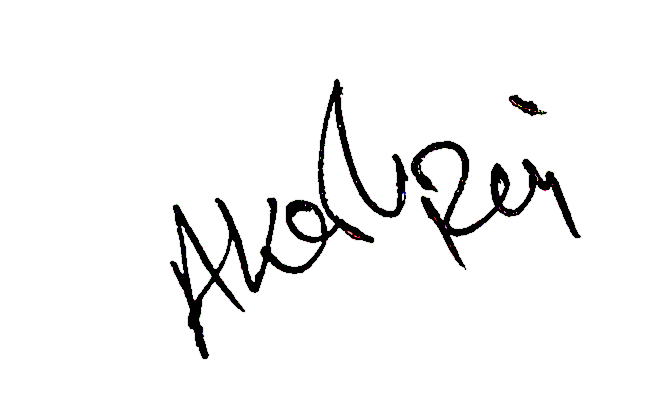
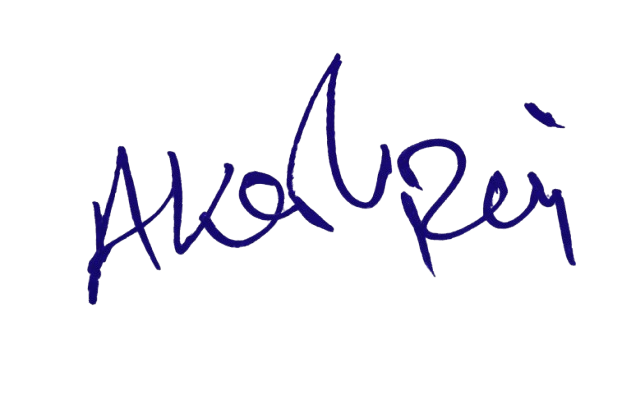
commit

Changed region(s): [[0.1204, 0.1215, 0.9334, 0.8506], [0.7528, 0.2127, 0.9033, 0.3342]]

diff --git a/src/pages/Billing.jsx b/src/pages/Billing.jsx
@@ -14,6 +14,7 @@ const BillingPage = () => {
   const customers = useSelector(state => state.customers.items);
   const products = useSelector(state => state.products.items);
   const { items: bills, status: billStatus } = useSelector(state => state.billings);
+  const { token } = useSelector(state => state.auth);
 
   const [activeTab, setActiveTab] = useState('checkout');
   const [printTargetData, setPrintTargetData] = useState(null);
@@ -228,12 +229,20 @@ const BillingPage = () => {
     };
 
     if (editingBillId) {
-      axios.put(`${import.meta.env.VITE_API_URL}billings/${editingBillId}`, completePayload)
-        .then((res) => {
-          alert("Invoice updated successfully!");
-          handlePostSubmitCleanup(res.data);
-        })
-        .catch(err => alert(`Failed to update bill record: ${err.response?.data?.message || err.message}`));
+      axios.put(
+  `${import.meta.env.VITE_API_URL}billings/${editingBillId}`,
+  completePayload,
+  {
+    headers: {
+      Authorization: `Bearer ${token}`
+    }
+  }
+)
+.then((res) => {
+  alert("Invoice updated successfully!");
+  handlePostSubmitCleanup(res.data);
+})
+.catch(err => alert(`Failed to update bill record: ${err.response?.data?.message || err.message}`));
     } else {
       dispatch(createInvoice(completePayload)).then((res) => {
         if (!res.error) {
@@ -278,6 +287,12 @@ const BillingPage = () => {
     setIsModalOpen(true);
   };
 
+  const handleCloseInspect = () => {
+    setSelectedBill(null);
+    setIsModalOpen(false);
+    setPrintTargetData(null)
+  };
+
   return (
     <div className="max-w-[1500px] mx-auto text-zinc-100 bg-zinc-950 min-h-screen space-y-6">
       
@@ -297,7 +312,7 @@ const BillingPage = () => {
             <button onClick={() => { setPrintTargetData(null); setActiveTab('checkout'); }} className="w-full sm:w-auto bg-zinc-800 hover:bg-zinc-700 text-white text-xs px-4 py-2 rounded-lg transition-colors font-bold">← Back to New Transaction</button>
           </div>
           <div className="overflow-x-auto">
-            <InvoiceTemplate billData={printTargetData} />
+            <InvoiceTemplate billData={printTargetData} onClose={handleCloseInspect} />
           </div>
         </div>
       )}
@@ -619,8 +634,7 @@ const BillingPage = () => {
         </div>
       )}
 
-      {isModalOpen && selectedBill && (<InvoiceTemplate billData={selectedBill} onClose={()=>setIsModalOpen(false)} />)}
-
+      {isModalOpen && selectedBill && (<InvoiceTemplate billData={selectedBill} onClose={handleCloseInspect} />)}
     </div>
   );
 };

diff --git a/src/components/BillReceiptCore.jsx b/src/components/BillReceiptCore.jsx
@@ -1,6 +1,7 @@
 import React from 'react';
 import logourl from '../assets/icon.png';
 import signUrl from '../assets/sign.png';
+import stampUrl from '../assets/stamp.png';
 
 const BillReceiptCore = ({ 
   invoice, 
@@ -232,12 +233,21 @@ const BillReceiptCore = ({
               </div>
 
               {/* Signature space */}
-              <div className="pt-4 flex flex-col items-end">
+              <div className="pt-4 flex flex-col items-end relative">
+                {/* Stamp positioned behind the signature area */}
+                <img 
+                  src={stampUrl} 
+                  alt="Company Seal Stamp" 
+                  className="absolute bottom- right-16 w-52 sm:w-52 h-auto object-contain mix-blend-multiply opacity-90 pointer-events-none transform -rotate-6" 
+                />
+
+                {/* Authorized Signature */}
                 <img 
                   src={signUrl} 
                   alt="Authorized Signature" 
-                  className="h-10 sm:h-12 w-24 sm:w-28 object-contain mix-blend-multiply mb-1 mr-2" 
+                  className="relative z-10 h-10 sm:h-18 w-32 sm:w-28 object-contain mix-blend-multiply mb-1 mr-2" 
                 />
+
                 <div className="w-32 sm:w-36 h-0.5 bg-zinc-300 mb-0.5"></div>
                 <div className="text-[8px] uppercase font-bold text-zinc-400 tracking-wider">Authorized Signature</div>
               </div>

diff --git a/src/components/InvoiceTemplate.jsx b/src/components/InvoiceTemplate.jsx
@@ -209,9 +209,7 @@ const InvoiceTemplate = ({ billData, onClose }) => {
               🖨 Print
             </button>
 
-            {onClose && (
-              <button onClick={onClose} className="text-zinc-400 hover:text-white transition-colors text-2xl shrink-0 leading-none cursor-pointer ml-2 no-print">&times;</button>
-            )}
+            <button onClick={onClose} className="text-zinc-400 hover:text-white transition-colors text-2xl shrink-0 leading-none cursor-pointer ml-2 no-print">&times;</button>
           </div>
         </div>
 
